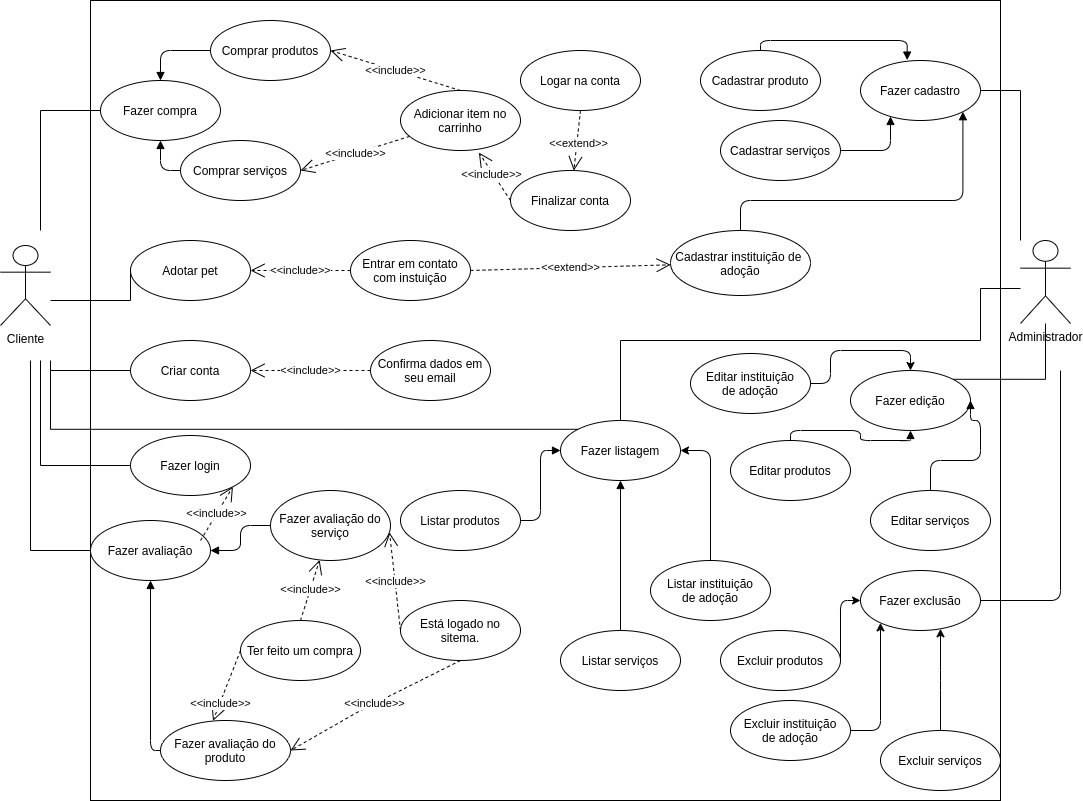
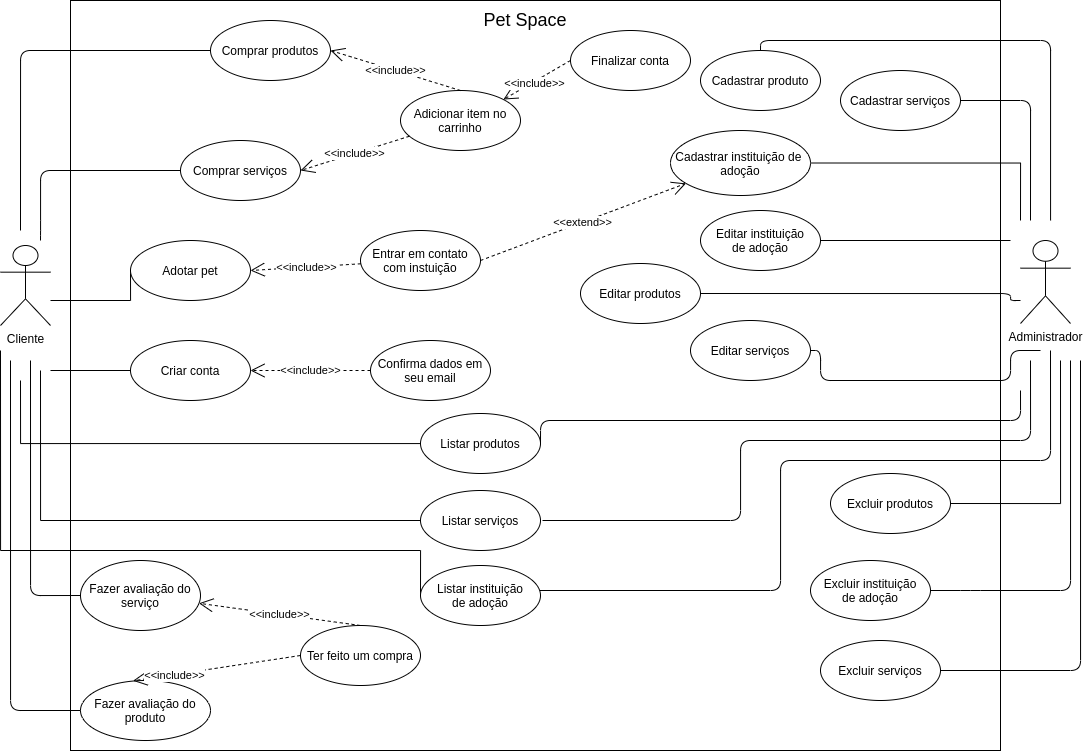
Reorganizando o doc de visão

diff --git a/Documentos/Pacote-2/Documento-de-Visão.md b/Documentos/Pacote-2/Documento-de-Visão.md
@@ -1,6 +1,6 @@
 # PetSpace
 
-## HISTÓRICO DE REVISÃO 
+## Histórico de revisão
 
 
 
@@ -9,9 +9,9 @@
 |1.0|18/02/2021|Criação do documento|Equipe Void|
 |2.0|10/03/2021|Revisão do documento perante ao feedback do professor|Equipe Void|
 
-## 1. INTRODUÇÃO 
+## 1. Introdução 
 
-###  1.1 DECLARAÇÃO DO PROBLEMA
+###  1.1 Declaração do problema
 
 
 |**O problema**|A não praticidade e facilidade de obter produtos e serviços voltados aos pets|
@@ -20,12 +20,12 @@
 |**Cujo impacto é**|A pouca diversidade de interação dos donos e seus animais|
 |**Uma solução de sucesso seria**|Um e-commerce para a venda de produtos, serviços e adoção de pets|
 
-### 1.2 OBJETIVO DO PROJETO
+### 1.2 Objetivo do projeto
 
 Criar um e-commerce voltados às necessidades e comodidade dos donos de pets. No meio da pandemia da COVID-19, vários aspectos foram afetados, um deles foi a livre circulação, tornando a compra pela internet, além de uma medida de segurança, prático. Com isso percebemos a oportunidade de criar uma loja virtual para que pessoas consigam comprar produtos e serviços focados para seus pets.
 
 
-## 2- STAKEHOLDERS
+## 2- Stakeholders
 
 
 
@@ -37,10 +37,9 @@ Criar um e-commerce voltados às necessidades e comodidade dos donos de pets. No
 |Professor Orientador|Professor da disciplina Requisitos de Software|   Avaliar e gerar feedback sobre projeto|
 
 
-## 3- VISÃO GERAL DO PRODUTO
+## 3- Visão geral do produto
 
-### 3.1 DECLARAÇÃO DE POSIÇÃO DO PRODUTO
-
+### 3.1 Declaração de posição do produto.
 
 
 |**Para**|Donos de Pets|
@@ -51,7 +50,8 @@ Criar um e-commerce voltados às necessidades e comodidade dos donos de pets. No
 |**Ao contrário**|da Petz, que somente faz venda de produtos|
 |**Nosso produto**|Além da venda de produtos, fornece a oferta de serviços e adoção de pets|
 
-### 3.2 MÍNIMO PRODUTO VIÁVEL (MVP)
+
+### 3.2 Mínimo produto viável (MVP)
 - Visualizar lista de produtos;
 - Ver detalhes do produto;
 - Adicionar produto ao carrinho;
@@ -60,9 +60,57 @@ Criar um e-commerce voltados às necessidades e comodidade dos donos de pets. No
 - Avaliar produto.
 
 
-## 4. VISÃO GERAL DO PROJETO
+## 4- Documento de necessidades
 
-### 4.1 ORGANIZAÇÃO DO PROJETO
+
+|**Necessidade**|**Prioridade**|**Problema**|**Solução Atual**| **Solução Proposta** |
+| - | - | - | - | - |
+| Realizar compras de produtos e serviços para pets | Alta | Falta de praticidade e facilidade na compra | Geralmente a compra é feita em lojas físicas | Compras online, aumentar a praticidade e facilidade na compra |
+| Avaliar produtos e serviços | Média | A falta de feedback dificulta na tomada de decisão da compra | Busca opiniões de terceiros ou em outras fontes | O usuário dá seu feedback sobre um produto ou serviço |
+| Realizar adoção de pets | Baixa | Dificuldade de encontrar as diversas opções de adoção | Ir em um local específico para realizar uma adoção | Centralizar as opções de adoção, facilitando a busca e o contato |
+
+
+## 5- Casos de uso
+
+### 5.1 Requisitos
+
+|Requisito|Nome| Descrição |
+| - | - | - |
+|Req. 1|Autenticação e conta| |
+|Req. 2|Busca e filtro de elementos| |
+|Req. 3|Compra de produtos e serviços| |
+|Req. 4|Avaliar elementos| |
+|Req. 5|Fazer adoção| |
+|Req. 6|Visualizar detalhes| |
+|Req. 7|Cadastro, gerência e acompanhamento de elementos| |
+|Req. 8|Listagem de elementos| |
+
+### 5.2 Casos de uso
+
+
+| ID |Requisito|Caso de Uso|Atores|
+|-| - | - | - |
+| |Req. 2, Req. 3| Comprar produtos |Cliente|
+| |Req. 2, Req. 3| Comprar serviços |Cliente|
+| |Req. 5|Adotar pet|Cliente|
+| |Req. 1|Criar conta|Cliente|
+| |Req. 1|Fazer login|Cliente|
+| |Req. 1, Req. 4|Avaliar produto |Cliente|
+| |Req. 1, Req. 4|Avaliar serviços |Cliente|
+| |Req. 1, Req. 7|Fazer cadastro|Administrador|
+| |Req. 1, Req. 7|Fazer edição|Administrador|
+| |Req. 1, Req. 7|Fazer exclusão|Administrador|
+| |Req. 1, Req. 6, Req. 7,Req. 8|Listar produtos| Administrador|
+
+
+## 6- Diagrama de caso de uso
+
+![](https://raw.githubusercontent.com/Bruno-Felix/REQ-2020.2-PetSpace/gh-page/images/Use-case.png)
+
+
+## 4- Visão geral do projeto
+
+### 4.1 Organização do projeto
 
 
 
@@ -75,7 +123,7 @@ Criar um e-commerce voltados às necessidades e comodidade dos donos de pets. No
 |Time de Desenvolvimento|É a equipe de profissionais responsável por transformar o Product Backlog em um produto funcional.|Bruno Félix, Francisco Ferreira, Hércules Ismael, Daniel Primo e Pedro Henrique|
 
 
-## 5- FERRAMENTAS, AMBIENTE E INFRAESTRUTURA
+## 5- Ferramentas, ambiente e infraestrutura
 
 
 
@@ -93,9 +141,9 @@ Criar um e-commerce voltados às necessidades e comodidade dos donos de pets. No
 |Dockerhub|É um repositório público onde empresas podem publicar suas soluções em forma de imagem|
 |GitHub|É uma plataforma de hospedagem de código-fonte e arquivos com controle de versão usando o Git.|
 
-## 6- PROCESSO DE GERÊNCIA DE PROJETO
+## 6- Processo de gerência de projeto
 
-### 6.1 PLANEJAMENTO DAS FASES E ITERAÇÕES DO PROJETO
+### 6.1 Planejamento das fases e iterações do projeto
 
 
 |**Sprint**|**Data**|**Descrição**|
@@ -107,13 +155,13 @@ Criar um e-commerce voltados às necessidades e comodidade dos donos de pets. No
 |Sprint 5|27/abr a 13/mai|Definição do Escopo da Iteração Gerenciamento dos Requisitos|
 
 
-### 6.2 PROCESSOS DE DESENVOLVIMENTO E MENSURAÇÃO
+### 6.2 Processos de desenvolvimento e mensuração
 
 O processo de desenvolvimento da aplicação será conduzido por meio do uso de certas práticas da metodologia SCRUM, tendo seus ritos adaptados à realidade do projeto, considerando o contexto de home office por conta da pandemia. O projeto será acompanhado por meio de reuniões semanais, para o planejamento da sprint e revisão da sprint anterior. Além disso, serão realizadas reuniões rápidas, nos moldes de dailys, da metodologia SCRUM, porém realizadas 3 vezes por semana, para rastrear eventuais impedimentos e ter uma boa perspectiva do que está sendo feito. As datas finais das fases do projeto serão as bases para as Releases do produto.
 
 Nosso processo de mensuração, no planejamento da Sprint, será baseado nos Burndown report e Velocity tracking, do recurso ZenHub da plataforma GitHub. Usaremos também uma pontuação, o Planning Poker, para definir a dificuldade de desenvolvimento de uma User Story, assim mensurando bem os esforços e o tempo gasto durante a Sprint.
 
-### 6.3 MATRIZ DE COMUNICAÇÃO
+### 6.3 Matriz de comunicação
 
 
 
@@ -123,14 +171,14 @@ Nosso processo de mensuração, no planejamento da Sprint, será baseado nos Bur
 |Comunicar o que está feito, inpecílicios, e o que planeja ainda fazer|Equipe de Desenvolvimento|Segunda, Quarta e Sexta|Ata da Reunião|
 |Receber feedbacks das entregas do projeto|Equipe de Desenvolvimento e o Professor|Ao final de cada Sprint| Feedback|
 
-### 6.4 ESCALABILIDADE DO PROJETO
+### 6.4 Escalabilidade do projeto
 
 A necessidade de mudança e resolução de problemas é uma característica inerente ao desenvolvimento de software.
 
 Caso ocorra algum problema no desenvolvimento o desenvolvedor deve tentar saná-lo por si só, caso não consiga, ficará a cargo do DevOps resolver o problema e garantir a continuidade do projeto. Se o problema persistir e estiver relacionado a integração do time, o Scrum Master será acionado e tentará solucionar o problema. Caso seja um problema de requisitos ou visão do produto, será acionado o Product Owner para reavaliar os requisitos e talvez fazer uma nova reunião com o cliente. Mas caso o problema seja em relação à matéria ou orientação de projeto, o professor será acionado como última instância.
 
 
-### 6.5 GERENCIAMENTO DE RISCO
+### 6.5 Gerenciamento de risco
 
 
 
@@ -152,7 +200,7 @@ Caso ocorra algum problema no desenvolvimento o desenvolvedor deve tentar saná-
 
 
 
-### 6.6 CRITÉRIOS DE REPLANEJAMENTO
+### 6.6 Critérios de replanejamento
 
 Ter bem definido os critérios de replanejamento assegurará uma boa entrega do produto, levantamos 3 que serão cruciais no projeto.
 
@@ -160,11 +208,11 @@ Ter bem definido os critérios de replanejamento assegurará uma boa entrega do 
 - Mudança de escopo do produto: Baseado numa mudança de visão, ou por um curto espaço de tempo hábil para o desenvolvimento, talvez se mostre necessário replanejar que será entregue;
 - Poucas entregas: Ao final de cada sprint será feita uma reunião de revisão, pode-se notar uma diferença grande entre o planejado e o entregue. Isso pede que no planejamento da próxima Sprint seja levantado o que deu errado e o que pode ser feito para que as entregas da Sprint passadas sejam feitas e que as novas sejam bem desenvolvidas, dentro do prazo e do planejamento.
 
-## 7- LIÇÕES APRENDIDAS
+## 7- Lições aprendidas
 
 A falta de comunicação devido a poucas reuniões nos levaram a ter visões diferentes do projeto, com o passar disciplina, aumentar a frequência das reuniões e, principalmente, fazer uso do Lean inception, conseguimos alinhar bem melhor as ideias. Além disso, os conhecimentos relacionados a requisitos foram sendo solidificados e lapidados, fazendo com que cada vez mais tivéssemos uma ideia clara do projeto, conseguindo assim, levantar de forma bem mais clara e coerente os requisitos para o desenvolvimento das entregas de cada unidade e do produto final.
 
-## 8 REFERÊNCIAS 
+## 8 Referências 
 
 Schwaber, K. & Beedle, M. (2002). Agile software development with Scrum. New Jersey: Prentice Hall.
 

diff --git a/Documentos/Pacote-2/RequisitosXcaso_de_uso.md b/Documentos/Pacote-2/RequisitosXcaso_de_uso.md
@@ -13,18 +13,20 @@
 
 
 
-# Requisitos x Caso de uso
+# CasoS de uso
 
 
-|Requisito|Caso de Uso|Atores|
-| - | - | - |
-|Req. 2, Req. 3|Fazer compra|Cliente|
-|Req. 5|Adotar pet|Cliente|
-|Req. 1|Criar conta|Cliente|
-|Req. 1|Fazer login|Cliente|
-|Req. 1, Req. 4|Fazer avaliação|Cliente|
-|Req. 1, Req. 7|Fazer cadastro|Administrador|
-|Req. 1, Req. 7|Fazer edição|Administrador|
-|Req. 1, Req. 7|Fazer exclusão|Administrador|
-|Req. 1, Req.6, Req. 7,Req. 8|Listar produtos|Administrador|
+| ID |Requisito|Caso de Uso|Atores|
+|-| - | - | - |
+| |Req. 2, Req. 3| Comprar produtos |Cliente|
+| |Req. 2, Req. 3| Comprar serviços |Cliente|
+| |Req. 5|Adotar pet|Cliente|
+| |Req. 1|Criar conta|Cliente|
+| |Req. 1|Fazer login|Cliente|
+| |Req. 1, Req. 4|Avaliar produto |Cliente|
+| |Req. 1, Req. 4|Avaliar serviços |Cliente|
+| |Req. 1, Req. 7|Fazer cadastro|Administrador|
+| |Req. 1, Req. 7|Fazer edição|Administrador|
+| |Req. 1, Req. 7|Fazer exclusão|Administrador|
+| |Req. 1, Req. 6, Req. 7,Req. 8|Listar produtos|| Administrador|
 
